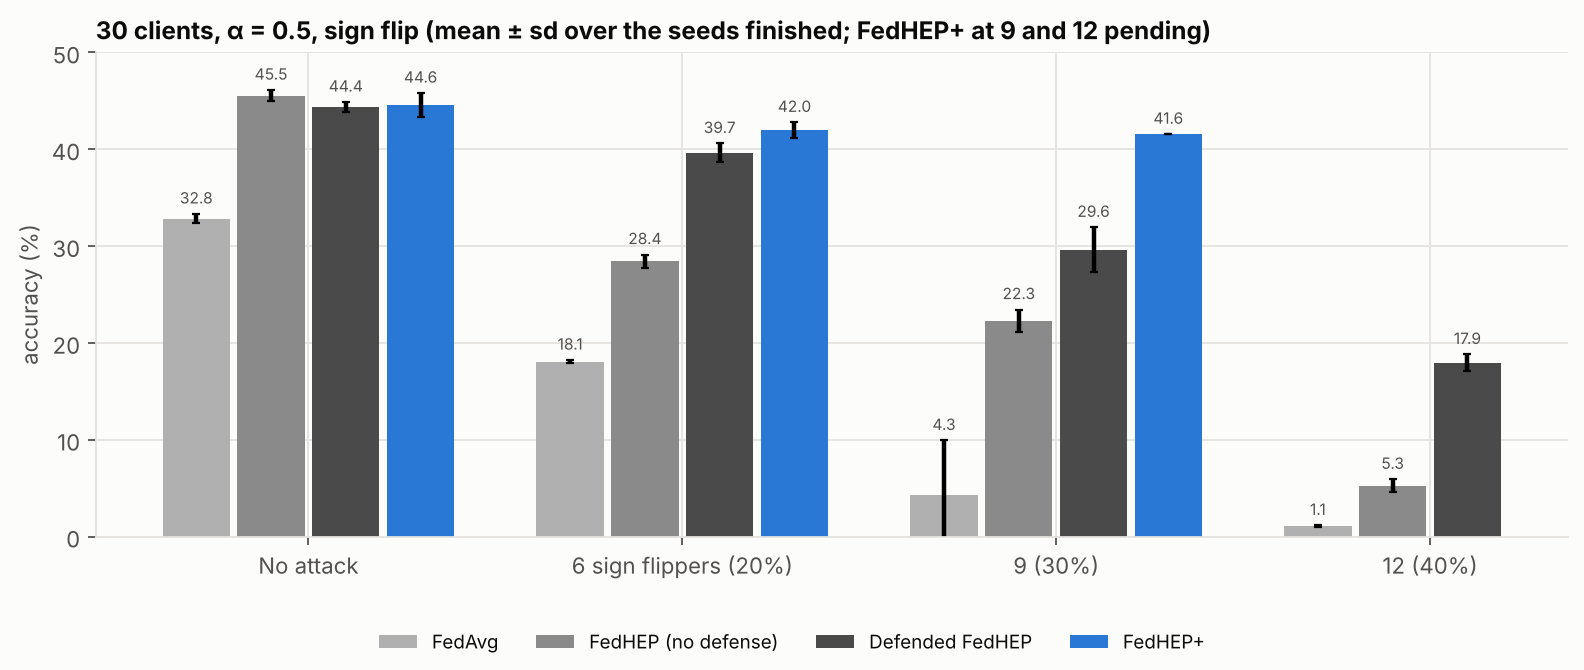
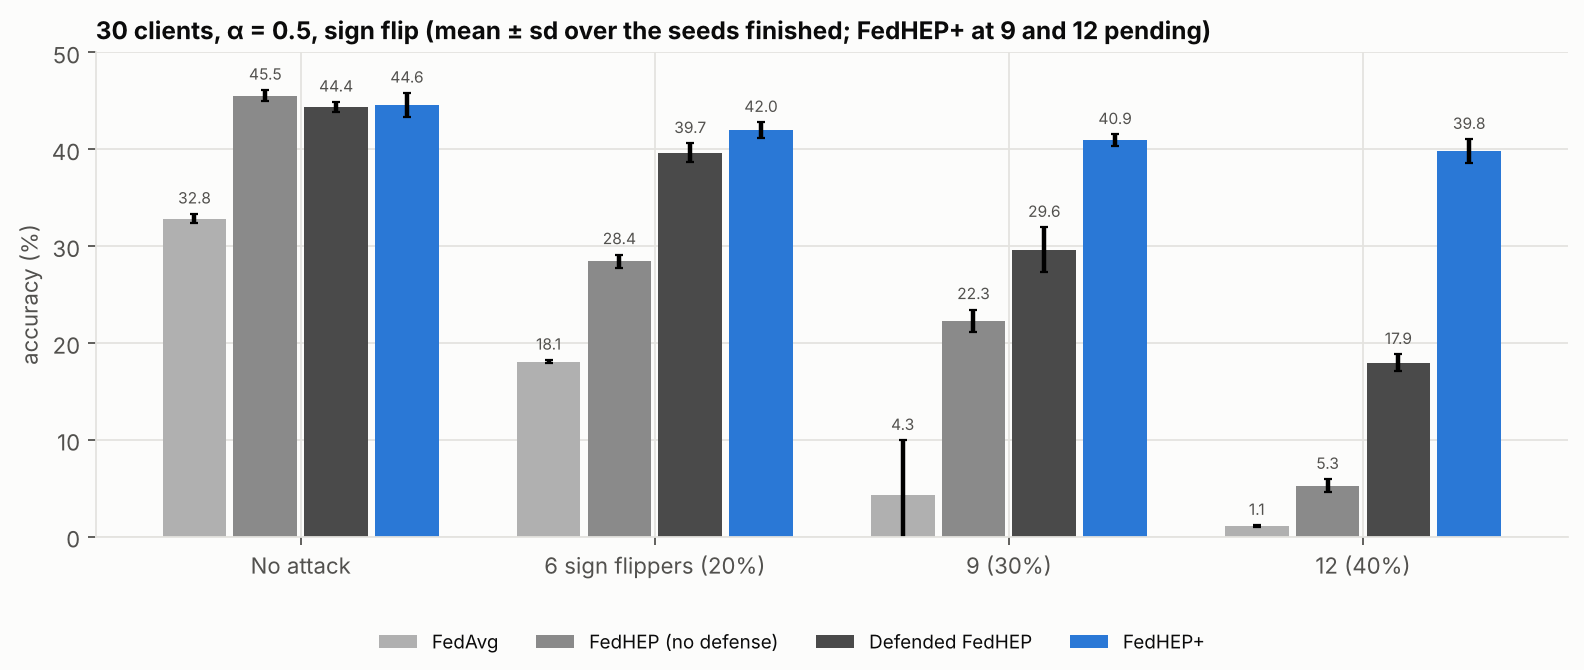
GPU batch 1 analysis: six screening signals, CUDA baselines, Mac-vs-CUDA comparison; recovery with the whole-update signal; 100-round R3 rungs
- No signal catches the backdoor on every seed; whole update and critical layers fail on different seeds.
- 105 identical runs on two devices: mean difference 0.72 points, the size of a seed change.
- Figures phase6_signals and phase6_devices; device pairs in docs/results; README latest results and the
  measured device difference; predictions P1-P6 and P13 checked.

Claude-Session: https://claude.ai/code/session_01PHkRgbQ7u74x39uCQjqDze

diff --git a/scripts/plot_phase6.py b/scripts/plot_phase6.py
@@ -6,6 +6,7 @@ Usage: python scripts/plot_phase6.py outputs
 from __future__ import annotations
 
 import importlib.util
+import json
 import sys
 from pathlib import Path
 
@@ -180,6 +181,63 @@ def fig_durability(runs: dict) -> None:
     pr.save(fig, "phase6_durability.png")
 
 
+def fig_signals(runs: dict) -> None:
+    """GPU batch gpu_d1_signals (CUDA, D1, 3 seeds): which screening signal catches the backdoor, and what each
+    costs in honest clients isolated with no attack."""
+    rows = [("g1__fedhep", "FedHEP"), ("g1__l0", "L0"), ("g1__plus", "FedHEP+"), ("g1__r3", "R3 root head"),
+            ("g1__r3w", "R3 whole update"), ("g1__r3c", "R3 critical layers"), ("g1__r3s", "R3 sign align"),
+            ("g1__r3p", "R3 probe logits"), ("g1__r3h", "R3 head gap")]
+    fig, (ax, ax2) = plt.subplots(1, 2, figsize=(13, 4.6), gridspec_kw={"width_ratios": [1.6, 1]})
+    for i, (prefix, _label) in enumerate(rows):
+        bd = _runs(runs, f"{prefix}__backdoor3")
+        ys = [m["history"][-1]["asr"] for m in bd]
+        ax.scatter([i] * len(ys), ys, color=pr.SLOT[0], s=28, zorder=3)
+        if ys:
+            ax.hlines(sum(ys) / len(ys), i - 0.3, i + 0.3, color=pr.INK, linewidth=2)
+        guard = [m["history"][-1]["guarded"]["asr"] for m in bd if m["history"][-1].get("guarded")]
+        ax.scatter([i + 0.18] * len(guard), guard, color=pr.SLOT[1], s=16, marker="D", zorder=3,
+                   label="with exit guard" if i == 0 else None)
+        clean = _runs(runs, f"{prefix}__clean")
+        hon = sum(_false(m) for m in clean)
+        acc = sum(m["final"]["pooled"] for m in clean) / max(1, len(clean))
+        ax2.barh(i, hon, color=pr.SLOT[2] if hon <= 1 else pr.SLOT[3])
+        ax2.text(hon + 0.2, i, f"{hon}   ({acc:.1f}% acc.)", va="center", fontsize=8, color=pr.INK2)
+    ax.set_xticks(range(len(rows)), [r[1] for r in rows], rotation=30, ha="right")
+    ax.set_ylabel("backdoor success at round 30 (%)")
+    ax.set_ylim(-3, 100)
+    ax.scatter([], [], color=pr.SLOT[0], s=28, label="each seed")
+    ax.legend(fontsize=8, loc="upper right")
+    ax.set_title("Backdoor (3 attackers): no single signal catches it on every seed")
+    ax2.set_yticks(range(len(rows)), [r[1] for r in rows])
+    ax2.invert_yaxis()
+    ax2.set_xlabel("honest clients isolated with no attack (sum over 3 seeds)")
+    ax2.set_xlim(0, 16)
+    ax2.set_title("Cost with no attack")
+    pr.save(fig, "phase6_signals.png")
+
+
+def fig_devices(pairs_path: Path) -> None:
+    """Same configuration and seed on the Mac (MPS) and the GPU server (CUDA): final accuracy of each pair."""
+    if not pairs_path.exists():
+        return
+    pairs = [p for p in json.loads(pairs_path.read_text()) if "mps" in p and "cuda" in p]
+    xs = [p["mps"][1] for p in pairs]
+    ys = [p["cuda"][1] for p in pairs]
+    diffs = [y - x for x, y in zip(xs, ys, strict=True)]
+    fig, ax = plt.subplots(figsize=(5.6, 5.2))
+    ax.scatter(xs, ys, s=18, color=pr.SLOT[0], alpha=0.8)
+    lo, hi = min(xs + ys) - 0.5, max(xs + ys) + 0.5
+    ax.plot([lo, hi], [lo, hi], color=pr.INK2, linewidth=1, linestyle=":")
+    ax.set_xlim(lo, hi)
+    ax.set_ylim(lo, hi)
+    ax.set_xlabel("Mac (MPS) final accuracy (%)")
+    ax.set_ylabel("GPU server (CUDA) final accuracy (%)")
+    mean_abs = sum(map(abs, diffs)) / len(diffs)
+    ax.set_title(f"{len(pairs)} identical runs on two devices: mean |difference| {mean_abs:.2f} points",
+                 fontsize=10)
+    pr.save(fig, "phase6_devices.png")
+
+
 def main() -> None:
     pr.style()
     runs = pr.load(Path(sys.argv[1]))
@@ -189,6 +247,9 @@ def main() -> None:
     fig_n30(runs)
     fig_backdoor_heads(runs)
     fig_durability(runs)
+    fig_signals(runs)
+    if len(sys.argv) > 2:
+        fig_devices(Path(sys.argv[2]))
 
 
 if __name__ == "__main__":

diff --git a/docs/EXPERIMENT_LOG.md b/docs/EXPERIMENT_LOG.md
@@ -1171,3 +1171,63 @@ Lab GPU server, NVIDIA RTX PRO 4500 Blackwell (32 GB), PyTorch 2.7.1 + CUDA 12.8
 - **Backdoor with stop (`n20h__`, 20 clients, 5 attackers):** FedHEP 80% (full) and 37% (stopped at round 10); FedHEP+ 45% and 32%.
 
 **Sign-election pilot** (`acer_frontier__`, a colleague's implementation of idea 10, seed 42 only, Acer): sign election vs L0: no attack 47.83 vs 47.83; ALIE 47.77 vs 48.09; Min-Max 43.01 vs 44.27; sign flip **44.15 vs 42.00**. Better than L0 under sign flip, worse under Min-Max; one seed, so no conclusion yet.
+
+## 2026-11-18 · GPU batch 1: six screening signals, fresh CUDA baselines, device comparison (186 runs)
+Lab GPU server, 4 × RTX PRO 4500, PyTorch 2.7.1 + CUDA 12.8, deterministic kernels; `gpu_d1_signals` (150 runs), `gpu_c2_alie` (24), `device_parity` (12). D1: α = 0.5, 15 clients, 3 attackers, 30 rounds, seeds 42, 123, 7. Every run also records the exit guard and head-agreement inference.
+
+![Screening signals](figures/phase6_signals.png)
+
+**Accuracy (mean ± sd over 3 seeds) and backdoor success:**
+
+| Method | No attack | Sign flip | ALIE | Min-Max | Backdoor (acc.) | Backdoor success per seed (123 / 42 / 7) | Honest isolated, no attack (sum of 3) |
+|---|---|---|---|---|---|---|---|
+| FedHEP | **49.19 ± 0.47** | 33.76 ± 2.71 | 47.58 ± 0.51 | 45.53 ± 0.88 | 46.99 | 75 / 80 / 83% | 0 |
+| Defended FedHEP | 48.68 ± 0.98 | 38.78 ± 1.52 | 47.50 ± 0.24 | 45.25 ± 0.85 | 47.47 | 75 / 80 / 82% | 0 |
+| FedHEP+ | 48.48 ± 1.21 | **46.28 ± 1.28** | **47.84 ± 0.65** | 44.67 ± 2.11 | 46.69 | **5 / 18 / 42%** | 8 |
+| L0 alone | 48.21 ± 0.75 | 41.58 ± 1.39 | 47.29 ± 0.20 | 45.78 ± 0.86 | 46.95 | 60 / 64 / 69% | 0 |
+| R3, root-head signal | 47.89 ± 0.55 | 46.12 ± 0.59 | 46.33 ± 0.51 | 46.22 ± 0.56 | 46.18 | 32 / 70 / 68% | 4 |
+| R3, whole update | 47.36 ± 0.13 | 45.81 ± 0.67 | 45.41 ± 1.23 | 46.13 ± 1.35 | 44.76 | **0.6** / 71 / **0.6%** | 13 |
+| R3, critical layers | 47.89 ± 0.50 | 46.12 ± 0.59 | 46.33 ± 0.51 | 46.03 ± 1.50 | 46.11 | 65 / **0.5** / 83% | 0 |
+| R3, sign alignment | 47.89 ± 0.50 | 46.12 ± 0.59 | 46.33 ± 0.51 | **46.44 ± 0.93** | 46.02 | 74 / 71 / 83% | 0 |
+| R3, probe logits | 47.91 ± 0.51 | 46.16 ± 0.45 | 47.30 ± 0.28 | 46.09 ± 1.04 | 45.83 | 74 / 71 / 83% | 1 |
+| R3, head gap | 47.44 ± 0.39 | 46.16 ± 0.45 | 47.32 ± 0.31 | 45.79 ± 0.80 | 46.17 | 10 / **0.7** / 83% | 9 |
+
+Attackers isolated (of 3, mean over seeds): every R3 signal isolates all sign flippers except probe logits and head gap (0); all R3 signals isolate all Min-Max attackers; root head, whole update, critical layers and sign alignment isolate all ALIE attackers, probe logits and head gap almost none (and score 1 point higher under ALIE for it: the ALIE lesson again). Backdoor attackers: root head 2.7, whole update 2.0, critical layers 1.7, head gap 2.3, sign alignment and probe logits 0.
+
+- **No signal catches the backdoor on every seed, but they fail on different seeds.** Whole update catches seeds 123 and 7, critical layers catches 42, head gap catches 123 and 42. A screen that acts on the most suspicious of the whole-update and critical-layer signals would have caught all three. On the Mac the whole-update signal caught all three seeds (0.5–0.9%, below), so the seed it misses is not fixed; detection is close to a threshold in both cases.
+- **Seeing the backdoor costs honest clients.** The two signals that catch it (whole update, head gap) isolate 13 and 9 honest clients over 3 no-attack runs and lose 0.5 points against the root-head signal; the three that never isolate anyone also never see the backdoor (except critical layers on one seed). This is the screening dilemma of the whole project in one table.
+- **Identical rows are expected, not a bug:** runs are deterministic, and when two signals make the same isolation decisions (nobody with no attack, the three sign flippers in round 3) the runs are bit-identical.
+- **FedHEP+ (no gate, one-sided) remains the best overall** on CUDA: best under sign flip and ALIE, and the lowest backdoor success, at 8 honest isolations with no attack.
+- **Prediction-time defenses:** the exit guard cuts every undetected backdoor by about half (FedHEP 79 → 42%, Defended 79 → 42%, L0 64 → 35%, R3 57 → 32%) and costs 0.3 points with no attack (3% of clean inputs flagged). Head-agreement inference costs 0.1–0.4 points and removes 0.5–19 points of backdoor success.
+- **ALIE puzzle on CUDA (`c2__`) reproduces the Mac result:** no regrouping 46.53 (+0.20 over R3), f held fixed 45.09 (−1.24), both 45.36; with no attack all within 0.3.
+
+**The same experiments on two devices.** 105 runs have identical configuration and seed on the Mac (MPS) and the GPU server (CUDA):
+
+![Mac vs CUDA](figures/phase6_devices.png)
+
+Mean |difference| 0.72 points (CUDA higher by 0.30 on average, largest 2.75); the seed-to-seed standard deviation of one configuration on the Mac is 0.79. A device change moves a run about as much as a seed change. Method rankings with gaps of a point or more survive (sign flip: identical order), rankings within half a point can swap (no attack, ALIE, Min-Max). The device rule stands: one device per comparison table. Pairs: `docs/results/device_pairs.json`. Four Mac/Acer pairs (seed 42) differ by 0.46 on average.
+
+**Whole-update signal with rewind (Mac, `mac_c5_recovery`, D1 backdoor):**
+
+| Variant | Backdoor success (123 / 42 / 7) | Attackers caught (round) | Honest isolated | Accuracy |
+|---|---|---|---|---|
+| R3, root head, no rewind (`p6__r3g8`) | 36 / 74 / 45% | 3, 0, 3 (12–14) | 0.7 | 46.84 |
+| R3, whole update, no rewind | 0.5 / 0.5 / 0.9% | 3, 3, 3 (3–6) | 0, 2, 5 | 46.10 |
+| … rewind trunk | 0.5 / 0.5 / 0.3% | same | 3, 0, 5 | 45.74 |
+| … rewind trunk + root head | 0.2 / 0.4 / 0.3% | same | 2, 0, 5 | 45.83 |
+| … rewind all shared weights | 0.3 / 0.5 / 0.3% | same | 3, 0, 3 | 45.24 |
+
+Detected by round 6, the backdoor never takes hold, so the rewind has nothing left to remove; each rewind triggered by a false isolation costs accuracy instead (rewinding everything: −0.9). Runs with the attack stopped at round 10 are identical to the full runs because every attacker was already isolated.
+
+**100 rounds, attackers stop at round 50 (Acer, `acer_c6_durability`, now 17 of 21 runs):**
+
+| Method | Backdoor success at round 100 (123 / 42 / 7) | Attackers caught (first round) | Honest isolated | Accuracy |
+|---|---|---|---|---|
+| FedHEP | 69 / 74 / 75% | none | 0 | 43.55 |
+| L0 | 64 / 70 / 71% | none | 0 | 44.38 |
+| R3, root head | 23 / **71** / 21% | 3, 2 (round 40), 3 | 0, 0, 1 | 43.63 |
+| R3, whole update | 1 / 17 / 1% | 3, 3, 3 (3–14) | 8, 6, 4 | 42.19 |
+| R3, whole update + rewind (2 seeds) | 0 / 1% | 3, 3 | 4, 4 | 42.90 |
+| FedHEP+ | 2 / 5 / 2% | 3, 3, 3 (4–10) | 8, 8, 8 | 43.68 |
+
+Over 100 rounds the price of the whole-update signal shows: 4–8 honest clients isolated and 1.4–2.2 points of accuracy. The root-head screen does not climb past 80% as predicted (P13): where it catches the attackers by round 14 the backdoor stays near 20%.

diff --git a/README.md b/README.md
@@ -87,6 +87,17 @@ This motivates the two active Phase 6 backdoor mechanisms: **Head-Agreement Infe
 
 ---
 
+### Latest Results (2026-11-18): Screening Signals on the GPU Server
+
+186 runs on 4 × RTX PRO 4500 (CUDA, deterministic; `D1`, 3 seeds) compared six screening signals on top of rung R3, with fresh baselines. Full tables in [`docs/EXPERIMENT_LOG.md`](docs/EXPERIMENT_LOG.md); predictions checked in [`docs/PREDICTIONS.md`](docs/PREDICTIONS.md).
+
+![Screening signals](docs/figures/phase6_signals.png)
+
+- **No single signal catches the backdoor on every seed.** The whole-update signal catches all three attackers on two seeds (0.6% success) and misses the third (71%); the critical-layer signal catches exactly the seed the whole-update signal misses; the head-gap signal catches two. Their union covers all three seeds, which points to a multi-signal screen as the next rung.
+- **Signals that see the backdoor cost honest clients:** whole update 13 and head gap 9 false isolations over 3 seeds with no attack; critical layers, sign alignment and probe logits isolate nobody (and, except critical layers once, miss the backdoor).
+- **A backdoor that is missed never fades** (100 rounds, attackers stop at round 50: 64–75% to the end), and **one caught by round 10 stays out** (FedHEP+, whole-update signal: 0–5% for 100 rounds). See [`docs/figures/phase6_durability.png`](docs/figures/phase6_durability.png).
+- **The depth-exit guard halves any backdoor that gets through** (79% → 42%, 64% → 35%) at 0.3 points of accuracy; head-agreement inference does little.
+
 ## Documentation Guide
 
 The repository documentation is organized into **four tracks**:
@@ -227,7 +238,7 @@ python scripts/plot_phase6.py outputs                  # Regenerate Phase 6 ladd
 
 ### Why `mps`, Intel `xpu`, `cuda`, and `cpu` Produce Different Numbers
 
-Running the exact same configuration and seed on Apple Silicon (`mps`), Intel Arc/Iris (`xpu`), NVIDIA GPUs (`cuda`), and `cpu` produces **different training trajectories from the first round**, because the mini-batch order is drawn on the device (row 4 below): for training, a different device acts much like a different shuffling seed. **How large the difference is has not been measured yet**: no configuration in `outputs/` has been run on two devices. The device-parity sweep measures it (`configs/sweeps/device_parity.yaml`, 12 runs per device, each device also run twice to measure its own run-to-run noise; compare with `scripts/compare_devices.py`; commands in `docs/OPERATIONS.md`). Until then, the working assumption is that cross-device differences are of the same order as seed-to-seed differences (sd 0.3–1.5 points in our three-seed tables), which is why comparisons never mix devices. The causes:
+Running the exact same configuration and seed on Apple Silicon (`mps`), Intel Arc/Iris (`xpu`), NVIDIA GPUs (`cuda`), and `cpu` produces **different training trajectories from the first round**, because the mini-batch order is drawn on the device (row 4 below): for training, a different device acts much like a different shuffling seed. **Measured on 2026-11-18:** 105 runs exist with the same configuration and seed on the Mac (`mps`) and the GPU server (`cuda`). Final accuracy differs by 0.72 points on average (largest 2.75; CUDA higher by 0.30 on average), which is the same size as the seed-to-seed spread of one configuration on one device (standard deviation 0.79). A ranking of methods survives the change of device when they are more than about a point apart (sign flip: identical order) and can swap when they are within half a point (no attack, ALIE, Min-Max). See `docs/figures/phase6_devices.png` and the pairs in `docs/results/device_pairs.json`. Runs on the GPU server use deterministic kernels (`run.deterministic: true`): two jobs with the same configuration give identical numbers, which the Mac and the Acer do not guarantee. The causes:
 
 | Stage / Operation | Behavior Across `cuda`, `xpu`, `mps`, `cpu` | Technical Cause in Code |
 |---|---|---|

diff --git a/docs/PREDICTIONS.md b/docs/PREDICTIONS.md
@@ -168,4 +168,11 @@ Runs that are cheap on the server and were out of reach on the laptops: 100 roun
 | P9: trunk-only rewind leaves success above 30% | **Mixed:** 22.5% and 30.0%; rewinding the root head too adds only 1–4 points | `m6__r3_trunk`, `m6__r3_tr` |
 | P11 effect: head agreement brings success near the local head's | **Refuted:** 3–9 points of reduction; the parent head carries the backdoor too, so the personal heads rarely agree against the ensemble | `m6__*`, `x6__*` |
 | P13 (root-head gated screen rises above 80% by round 100) | Pending (`x6__r3g8` running). Related: with no detection the backdoor stays at 64–75% for 50 rounds after the attack stops | `x6__fedhep`, `x6__l0` |
+| P1: CUDA baselines within 1 point of the Mac with no attack, same ordering | **Mostly held:** 4 of 5 baselines within 0.7 (FedHEP +1.4); orderings swap only within half a point; L0 still beats R3 under ALIE (47.29 vs 46.33). 105 identical runs: mean difference 0.72 | `g1__*`, `docs/results/device_pairs.json` |
+| P2: whole-update and critical-layer signals cut backdoor success below 25%, critical the lower | **Half held:** whole update 24% on average (0.6, 71, 0.6% by seed; all three seeds under 1% on the Mac); critical layers 50% (catches one seed). Critical is not the lower | `g1__r3w`, `g1__r3c`, `m6__r3w` |
+| P3: those signals bring back 2–5 honest isolations per run | **Held for whole update** (4.3 per run); critical layers isolates nobody | `g1__r3w__clean`, `g1__r3c__clean` |
+| P4: sign alignment isolates every sign flipper and no honest client, misses the backdoor | **Held** exactly: 3/3, 0 honest, backdoor 76% | `g1__r3s` |
+| P5: probe logits and head gap catch sign flippers and nothing else | **Refuted both ways:** neither catches the sign flippers on CUDA (both catch Min-Max); head gap catches the backdoor on two seeds (10%, 0.7%) | `g1__r3p`, `g1__r3h` |
+| P6 (CUDA): exit guard halves backdoor success | **Held:** 79 → 42%, 64 → 35%, 57 → 32% | `g1__*__backdoor3` |
+| P13: root-head gated screen above 80% by round 100 | **Refuted:** 23, 71, 21% (the attackers are caught by round 14 on two seeds) | `x6__r3g8` |
 
